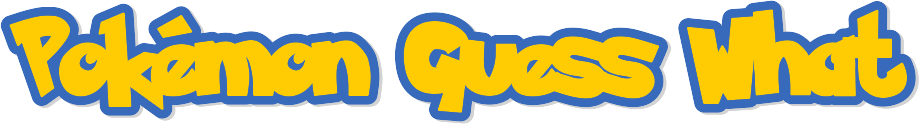
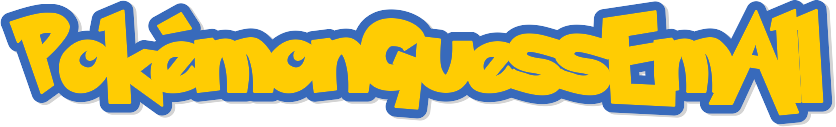
delete console.log

diff --git a/guess-who-i-am/src/Pokedex.js b/guess-who-i-am/src/Pokedex.js
@@ -26,9 +26,7 @@ function Pokedex(props) {
                     setPokemonGenera(response.data.genera.find(findingEnglishVersion).genus);
                     (response.data.habitat === null) ? (setPokemonHabitat('unknown')) : (setPokemonHabitat(response.data.habitat.name));
                     setPokemonText(response.data.flavor_text_entries.find(findingEnglishVersion).flavor_text);
-
                 }
-
             })
     }, [pokemonName])
 

diff --git a/guess-who-i-am/src/AnswerTheName.js b/guess-who-i-am/src/AnswerTheName.js
@@ -5,7 +5,6 @@ import HoverSound from './audios/buttonSoundHover.mp3';
 import ClickSound from './audios/buttonSoundClick.mp3';
 
 function AnswerTheName(props) {
-    console.log(props.correctName);
     const { correctName, pokemonFog, setPokemonFog, poperationBarShow, setOperationBarShow} = props;
     const [userInputText, setUserInputText] = useState('');
     const [submittedAlready, setSubmittedAlready] = useState(false);

diff --git a/guess-who-i-am/src/PokemonList.js b/guess-who-i-am/src/PokemonList.js
@@ -32,7 +32,6 @@ function PokemonList(props) {
         const dbRef = firebase.database().ref();
         dbRef.on('value', (response) => {
             const data = response.val();
-            console.log(data);
             const dataConvertToArray = Object.keys(data);
             if (String(dataConvertToArray).indexOf(userName) !== -1) {
                 setUserPokemonNumber(Object.keys(data[userName]).length);

diff --git a/guess-who-i-am/src/GetPokemonData.js b/guess-who-i-am/src/GetPokemonData.js
@@ -26,7 +26,6 @@ function GetPokemonData(props) {
             responseType: 'json'
         })
             .then(response => {
-                console.log(response.data);
                 setRandomPokemon(response.data.sprites.front_default);
                 setRandomPokemonName(response.data.name);
                 setRandomPokemonAlt(`The picture of ${response.data.name}`)

diff --git a/guess-who-i-am/public/index.html b/guess-who-i-am/public/index.html
@@ -31,7 +31,7 @@
       work correctly both with client-side routing and a non-root public URL.
       Learn how to configure a non-root public URL by running `npm run build`.
     -->
-    <title>React App</title>
+    <title>Pokemon Guess Em All</title>
   </head>
   <body>
     <noscript>You need to enable JavaScript to run this app.</noscript>

diff --git a/guess-who-i-am/src/_operationBar.scss b/guess-who-i-am/src/_operationBar.scss
@@ -19,7 +19,7 @@
         cursor: pointer;
 
         &:disabled {
-          text-decoration: line-through double #f87058;
+          text-decoration: line-through double;
         }
 
         &:hover::before {
